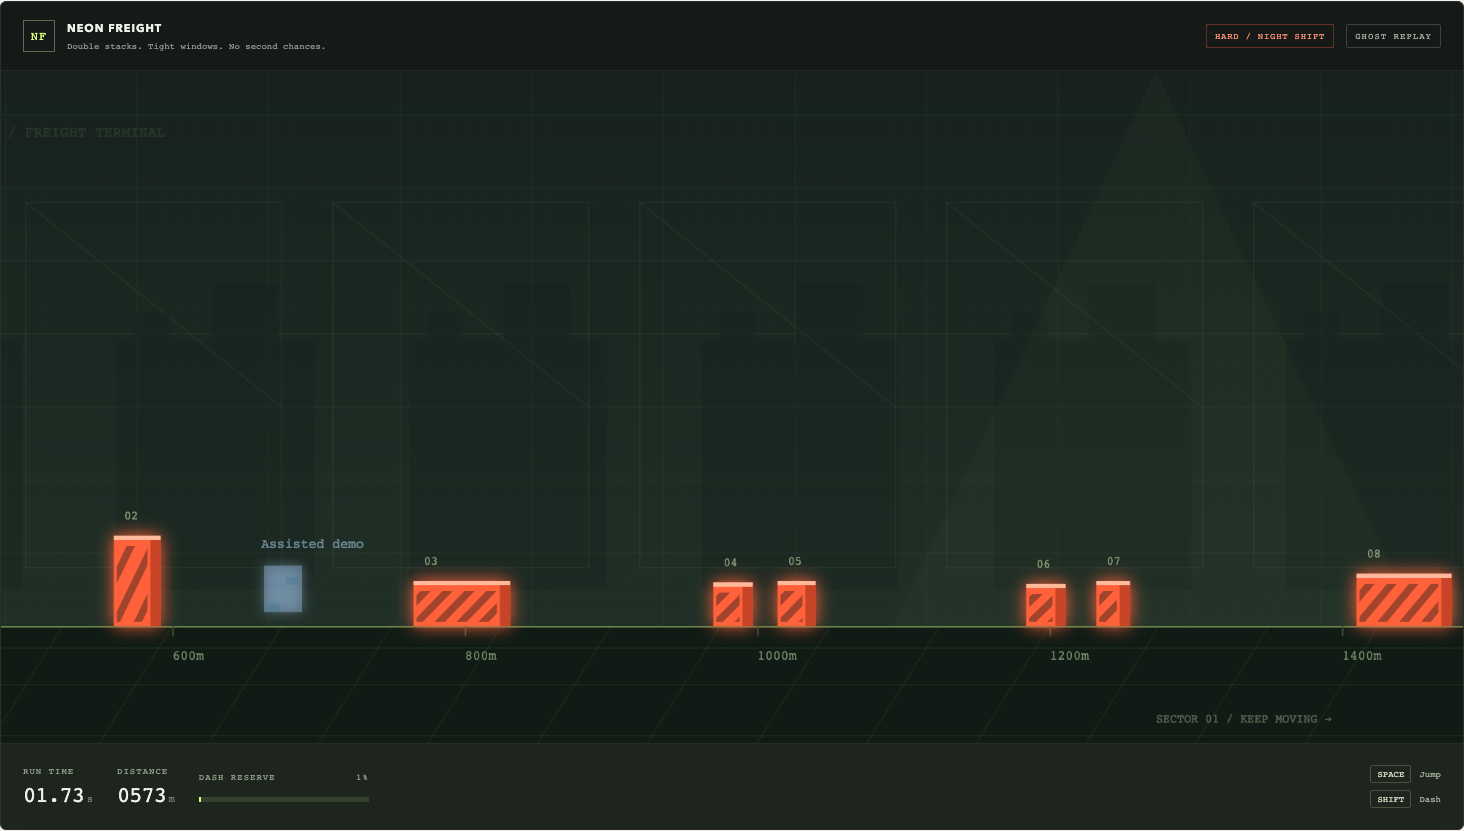
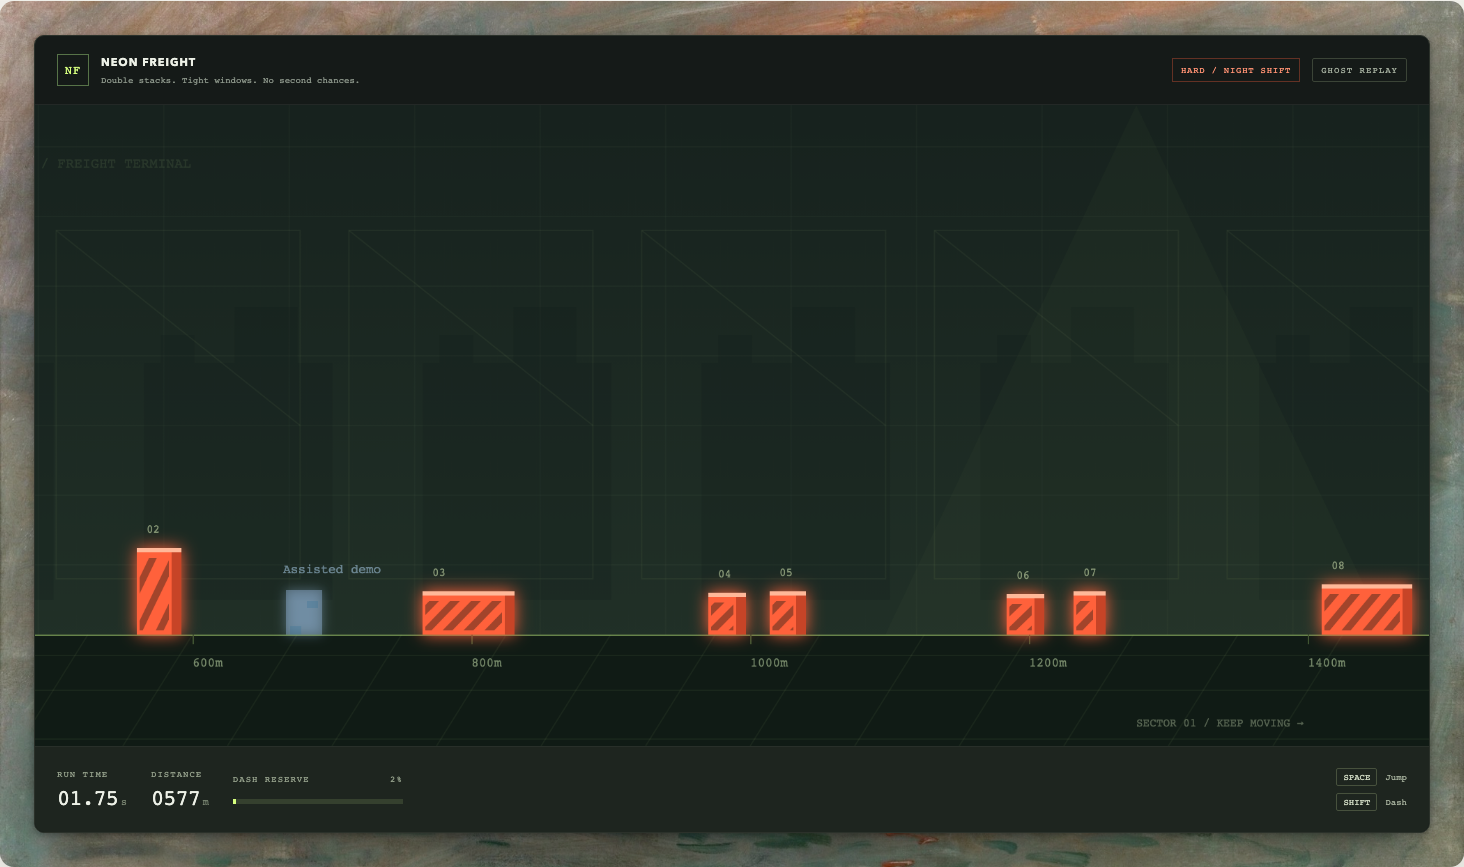
Frame the game on a painting on larger screens
Set the game window on Monet's Impression, Sunrise, a public domain
painting, above phone widths. Phones keep the full width and skip the
image download. Credit the painting and retake the gallery screenshots.

diff --git a/public/index.html b/public/index.html
@@ -56,51 +56,54 @@
               ><span id="desk-label">THE HOST DESK</span
               ><span id="round-label">PRACTICE / NO SCORE SUBMITTED</span></div
             >
-            <div class="arena">
-              <div class="arena-top"
-                ><div
-                  ><span class="arena-badge">NF</span
-                  ><span
-                    >NEON FREIGHT<span class="arena-subtitle" id="course-subtitle"
-                      >Make the jump. Keep your nerve.</span
-                    ></span
+            <div class="frame">
+              <div class="arena">
+                <div class="arena-top"
+                  ><div
+                    ><span class="arena-badge">NF</span
+                    ><span
+                      >NEON FREIGHT<span class="arena-subtitle" id="course-subtitle"
+                        >Make the jump. Keep your nerve.</span
+                      ></span
+                    ></div
+                  ><div class="arena-levels"
+                    ><span id="difficulty" class="difficulty-chip">HARD / NIGHT SHIFT</span
+                    ><span id="game-mode" class="mode-chip">PRACTICE</span></div
                   ></div
-                ><div class="arena-levels"
-                  ><span id="difficulty" class="difficulty-chip">HARD / NIGHT SHIFT</span
-                  ><span id="game-mode" class="mode-chip">PRACTICE</span></div
-                ></div
-              >
-              <div class="canvas-wrap"
-                ><canvas
-                  id="game"
-                  width="2000"
-                  height="920"
-                  tabindex="0"
-                  aria-label="Neon Freight obstacle course. Space or up arrow to jump, Shift to dash."
-                ></canvas>
-                <div id="game-screen" class="game-screen"
-                  ><span id="screen-kicker">A LITTLE LESS TALK.</span
-                  ><h2 id="screen-title">Make your move.</h2
-                  ><p id="screen-description"
-                    >Clear the freight. Dash for a faster time.<br />One crash is all it takes.</p
-                  ><button id="start" class="button primary">Launch run <span>↗</span></button
-                  ><span class="screen-hint" id="screen-hint">SPACE TO START · NO DOWNLOADS</span></div
                 >
-                <div id="countdown" class="countdown" hidden></div>
+                <div class="canvas-wrap"
+                  ><canvas
+                    id="game"
+                    width="2000"
+                    height="920"
+                    tabindex="0"
+                    aria-label="Neon Freight obstacle course. Space or up arrow to jump, Shift to dash."
+                  ></canvas>
+                  <div id="game-screen" class="game-screen"
+                    ><span id="screen-kicker">A LITTLE LESS TALK.</span
+                    ><h2 id="screen-title">Make your move.</h2
+                    ><p id="screen-description"
+                      >Clear the freight. Dash for a faster time.<br />One crash is all it takes.</p
+                    ><button id="start" class="button primary">Launch run <span>↗</span></button
+                    ><span class="screen-hint" id="screen-hint">SPACE TO START · NO DOWNLOADS</span></div
+                  >
+                  <div id="countdown" class="countdown" hidden></div>
+                </div>
+                <div class="game-hud"
+                  ><div
+                    ><span class="stat-label">RUN TIME</span
+                    ><strong id="time">00.00<span>s</span></strong></div
+                  ><div
+                    ><span class="stat-label">DISTANCE</span
+                    ><strong id="distance">0000<span>m</span></strong></div
+                  ><div class="energy-stat"
+                    ><span class="stat-label">DASH RESERVE <span id="energy-value">100%</span></span
+                    ><div class="energy-track"><div id="energy-fill"></div></div></div
+                  ><div class="controls"
+                    ><span><kbd>SPACE</kbd> Jump</span><span><kbd>SHIFT</kbd> Dash</span></div
+                  ></div
+                >
               </div>
-              <div class="game-hud"
-                ><div
-                  ><span class="stat-label">RUN TIME</span><strong id="time">00.00<span>s</span></strong></div
-                ><div
-                  ><span class="stat-label">DISTANCE</span
-                  ><strong id="distance">0000<span>m</span></strong></div
-                ><div class="energy-stat"
-                  ><span class="stat-label">DASH RESERVE <span id="energy-value">100%</span></span
-                  ><div class="energy-track"><div id="energy-fill"></div></div></div
-                ><div class="controls"
-                  ><span><kbd>SPACE</kbd> Jump</span><span><kbd>SHIFT</kbd> Dash</span></div
-                ></div
-              >
             </div>
             <div class="touch-controls"
               ><button id="touch-jump" class="button">JUMP ↑</button
@@ -225,7 +228,8 @@
           </aside>
         </section>
         <footer
-          ><span>BUILT FOR THE MOMENT. PLAYED BY THE COMMUNITY.</span
+          ><span
+            >BUILT FOR THE MOMENT. PLAYED BY THE COMMUNITY. BACKDROP: MONET, IMPRESSION, SUNRISE (1872).</span
           ><span>BEAT THIS MOMENT / CODEX × TWITCHCON</span></footer
         >
       </main>

diff --git a/public/style.css b/public/style.css
@@ -1610,3 +1610,27 @@ body.broadcast-mode .leaderboard h3 {
 .racer small.via-twitch {
   color: #6f4bb8;
 }
+
+/* The game sits on a painting, like a framed take. */
+.frame {
+  padding: clamp(10px, 2.2vw, 34px);
+  border-radius: 14px;
+  background: var(--dark) url('/backdrop.jpg') center / cover no-repeat;
+}
+.frame .arena {
+  border-radius: 10px;
+  box-shadow:
+    0 2px 6px #0000004d,
+    0 26px 70px #00000080;
+}
+/* Phones need every pixel for the game, so the painting stays on larger screens. */
+@media (max-width: 760px) {
+  .frame {
+    padding: 0;
+    border-radius: 0;
+    background: none;
+  }
+  .frame .arena {
+    box-shadow: none;
+  }
+}

diff --git a/README.md b/README.md
@@ -187,7 +187,7 @@ Server-side replay prevents fabricated scores but **does not prevent bots, tool-
 
 Codex was used to build and iterate on the game engine, saved-state challenge flow, interface, server-side verification, Twitch integration, tests, and demo setup. The [build contract](docs/BUILD.md) records the intended behavior, and [the verification notes](docs/QA.md) record what was actually verified.
 
-All art is drawn procedurally in Canvas/CSS. There are no third-party images, fonts, music, or game assets in the app.
+The game's art is drawn procedurally in Canvas and CSS. The one outside image is the page's backdrop: Monet's *Impression, Sunrise* (1872), public domain, via [Wikimedia Commons](https://commons.wikimedia.org/wiki/File:Monet_-_Impression,_Sunrise.jpg). The idea of framing the game on a painting comes from [Monet Shot](https://github.com/SocialAcolyte/monet-shot). There are no third-party fonts, music, or game assets.
 
 ## What comes next
 
